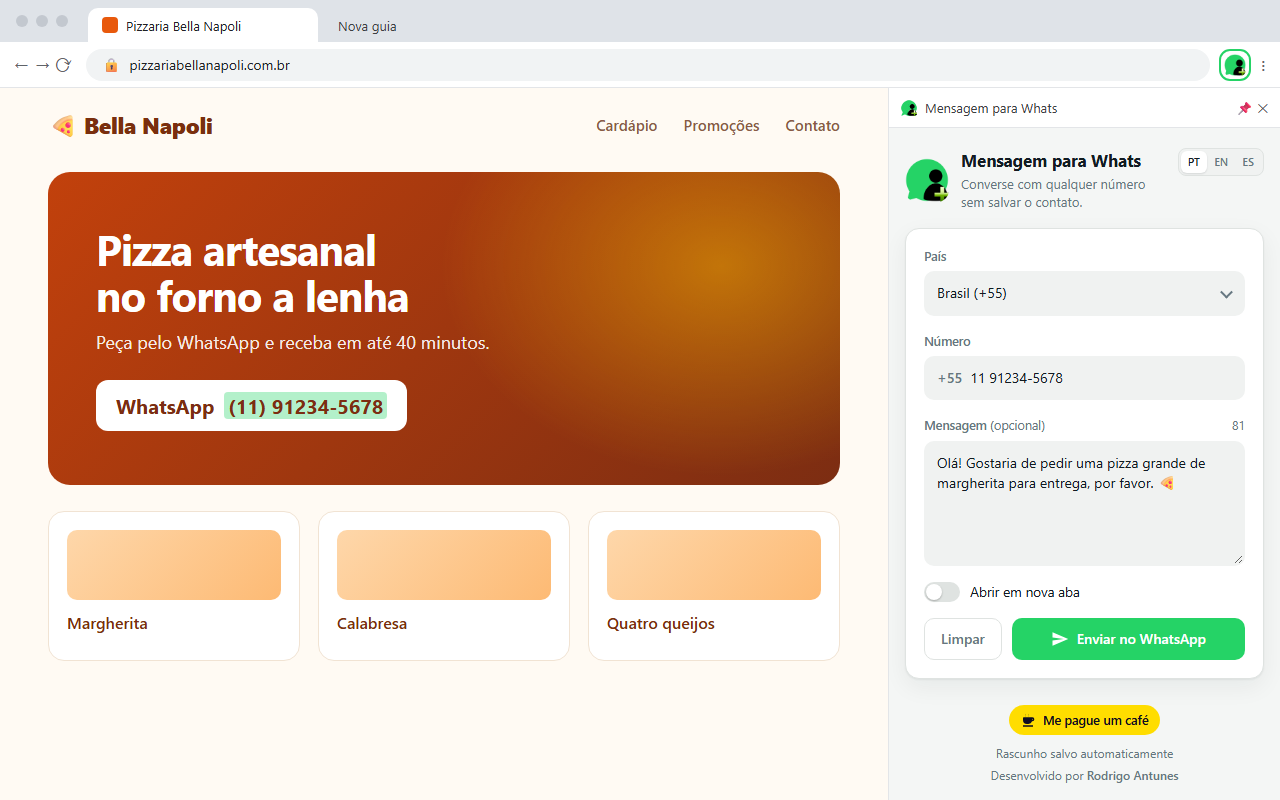
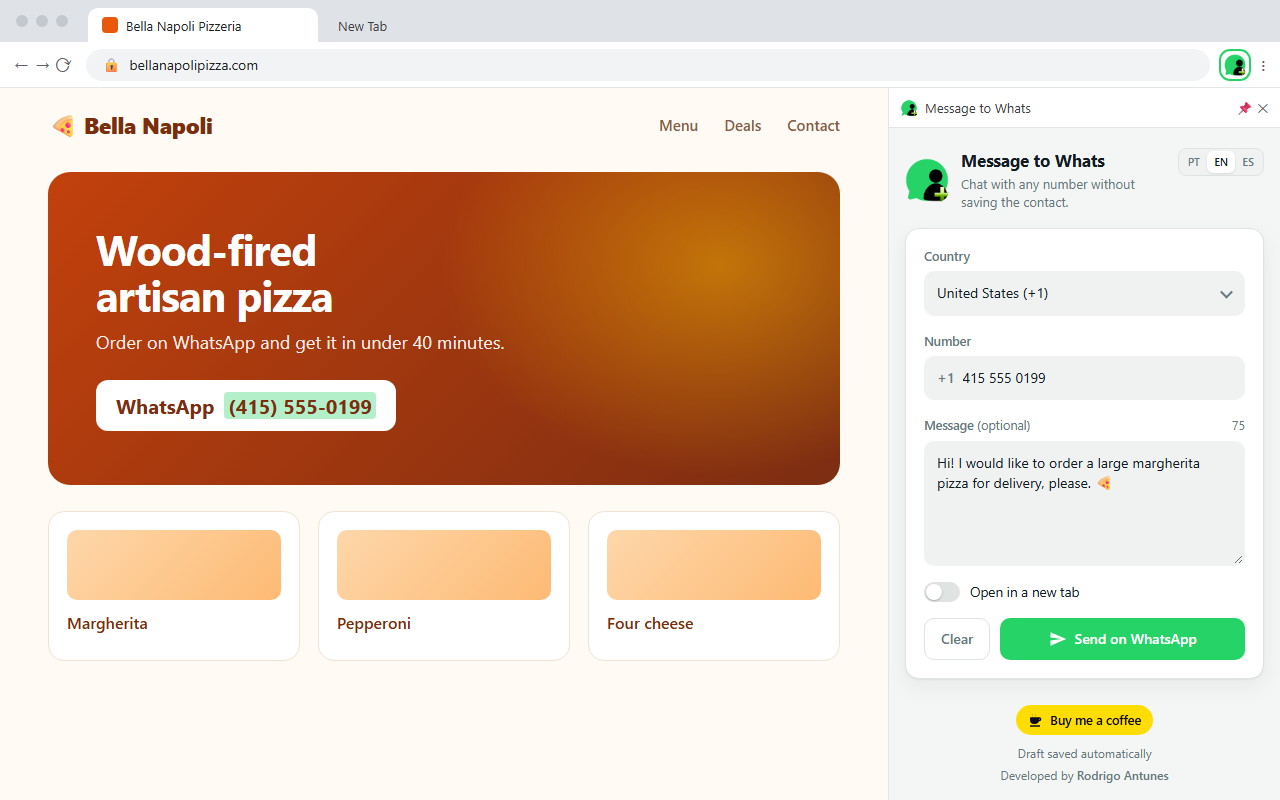
Prints da loja em inglês

diff --git a/store-assets/src/screenshot-1.html b/store-assets/src/screenshot-1.html
@@ -1,5 +1,5 @@
 <!DOCTYPE html>
-<html lang="pt-BR">
+<html lang="en">
 
 <head>
   <meta charset="utf-8">
@@ -242,12 +242,12 @@
   <div class="browser">
     <div class="tabs">
       <div class="dots"><i></i><i></i><i></i></div>
-      <div class="tab tab--active"><b></b>Pizzaria Bella Napoli</div>
-      <div class="tab">Nova guia</div>
+      <div class="tab tab--active"><b></b>Bella Napoli Pizzeria</div>
+      <div class="tab">New Tab</div>
     </div>
     <div class="toolbar">
       ← → ⟳
-      <div class="omnibox"><span>🔒</span>pizzariabellanapoli.com.br</div>
+      <div class="omnibox"><span>🔒</span>bellanapolipizza.com</div>
       <img class="ext" src="../../images/128.png" alt="">
       ⋮
     </div>
@@ -255,23 +255,23 @@
       <div class="page">
         <div class="site-nav">
           <strong>🍕 Bella Napoli</strong>
-          <nav><span>Cardápio</span><span>Promoções</span><span>Contato</span></nav>
+          <nav><span>Menu</span><span>Deals</span><span>Contact</span></nav>
         </div>
         <div class="site-hero">
-          <h2>Pizza artesanal<br>no forno a lenha</h2>
-          <p>Peça pelo WhatsApp e receba em até 40 minutos.</p>
-          <div class="phone-tag">WhatsApp <mark>(11) 91234-5678</mark></div>
+          <h2>Wood-fired<br>artisan pizza</h2>
+          <p>Order on WhatsApp and get it in under 40 minutes.</p>
+          <div class="phone-tag">WhatsApp <mark>(415) 555-0199</mark></div>
         </div>
         <div class="menu">
           <div>Margherita</div>
-          <div>Calabresa</div>
-          <div>Quatro queijos</div>
+          <div>Pepperoni</div>
+          <div>Four cheese</div>
         </div>
       </div>
       <aside class="sidebar">
         <div class="sidebar__bar">
           <img src="../../images/16.png" alt="">
-          <span>Mensagem para Whats</span>
+          <span>Message to Whats</span>
           📌 ✕
         </div>
         <iframe id="panel" src="../../sidepanel.html"></iframe>
@@ -282,10 +282,10 @@
   <script src="demo.js"></script>
   <script>
     fillPanel(document.getElementById('panel'), {
-      lang: 'pt',
-      iso: 'BR',
-      number: '11 91234-5678',
-      message: 'Olá! Gostaria de pedir uma pizza grande de margherita para entrega, por favor. 🍕'
+      lang: 'en',
+      iso: 'US',
+      number: '415 555 0199',
+      message: 'Hi! I would like to order a large margherita pizza for delivery, please. 🍕'
     });
   </script>
 </body>

diff --git a/store-assets/src/screenshot-2.html b/store-assets/src/screenshot-2.html
@@ -1,5 +1,5 @@
 <!DOCTYPE html>
-<html lang="pt-BR">
+<html lang="en">
 
 <head>
   <meta charset="utf-8">
@@ -12,13 +12,13 @@
 <body>
   <section class="hero hero--light">
     <div class="hero__copy">
-      <div class="eyebrow"><img src="../../images/128.png" alt="">Mensagem para Whats</div>
-      <h1>O painel <em>não fecha</em> e o rascunho <em>não se perde</em></h1>
-      <p>Abra no painel lateral do Chrome e continue navegando. Tudo o que você digita fica salvo.</p>
+      <div class="eyebrow"><img src="../../images/128.png" alt="">Message to Whats</div>
+      <h1>The panel <em>stays open</em> and your draft <em>is never lost</em></h1>
+      <p>Open it in Chrome's side panel and keep browsing. Everything you type is saved.</p>
       <ul class="bullets">
-        <li>Fica aberto ao clicar fora</li>
-        <li>Rascunho salvo automaticamente</li>
-        <li>Abra na aba atual ou em uma nova</li>
+        <li>Doesn't close when you click outside</li>
+        <li>Draft saved automatically</li>
+        <li>Open in the current tab or a new one</li>
       </ul>
     </div>
     <iframe class="panel" id="panel" src="../../sidepanel.html" width="380" height="700"></iframe>
@@ -26,7 +26,7 @@
 
   <script src="demo.js"></script>
   <script>
-    fillPanel(document.getElementById('panel'), {lang:'pt',iso:'BR',number:'21 99876-5432',message:'Oi, Ana! Vi o anúncio do apartamento e queria agendar uma visita para sábado de manhã. Ainda está disponível?',newTab:true,saved:true});
+    fillPanel(document.getElementById('panel'), {lang:'en',iso:'GB',number:'7700 900123',message:'Hi Anna! I saw the flat listing and would like to book a viewing for Saturday morning. Is it still available?',newTab:true,saved:true});
   </script>
 </body>
 

diff --git a/store-assets/src/screenshot-3.html b/store-assets/src/screenshot-3.html
@@ -1,5 +1,5 @@
 <!DOCTYPE html>
-<html lang="pt-BR">
+<html lang="en">
 
 <head>
   <meta charset="utf-8">
@@ -12,13 +12,13 @@
 <body>
   <section class="hero">
     <div class="hero__copy">
-      <div class="eyebrow"><img src="../../images/128.png" alt="">Mensagem para Whats</div>
-      <h1>Modo escuro e <em>3 idiomas</em></h1>
-      <p>Segue o tema do seu sistema e fala português, inglês e espanhol.</p>
+      <div class="eyebrow"><img src="../../images/128.png" alt="">Message to Whats</div>
+      <h1>Dark mode and <em>3 languages</em></h1>
+      <p>Follows your system theme and speaks English, Portuguese and Spanish.</p>
       <ul class="bullets">
-        <li>Português, English e Español</li>
-        <li>Mais de 200 códigos de país</li>
-        <li>Ctrl + Enter para enviar</li>
+        <li>English, Português and Español</li>
+        <li>Over 200 country codes</li>
+        <li>Ctrl + Enter to send</li>
       </ul>
     </div>
     <iframe class="panel" id="panel" src="../../sidepanel.html" width="380" height="700"></iframe>
@@ -26,7 +26,7 @@
 
   <script src="demo.js"></script>
   <script>
-    fillPanel(document.getElementById('panel'), {lang:'es',theme:'dark',iso:'AR',number:'11 2345-6789',message:'¡Hola! ¿Podemos confirmar la reunión de mañana a las 10 h?'});
+    fillPanel(document.getElementById('panel'), {lang:'en',theme:'dark',iso:'CA',number:'416 555 0142',message:'Hi! Can we confirm tomorrow’s meeting at 10 am?'});
   </script>
 </body>
 
